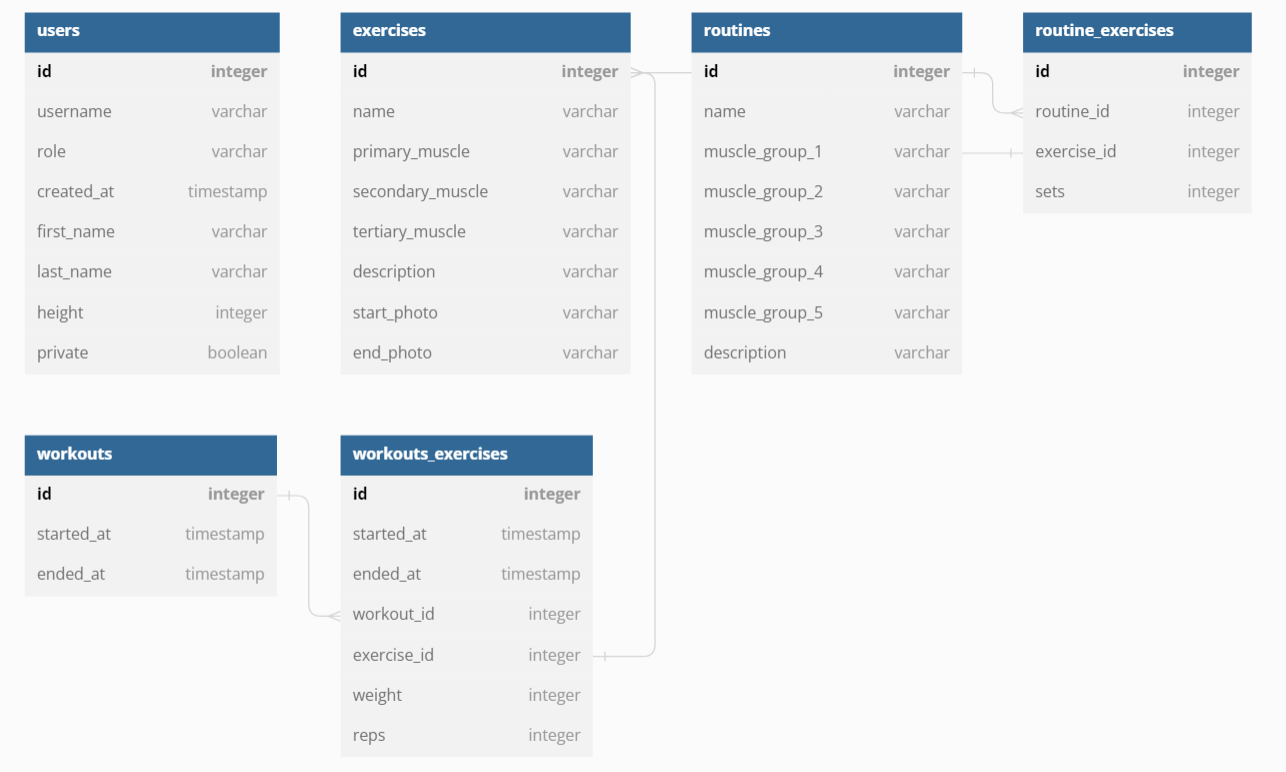
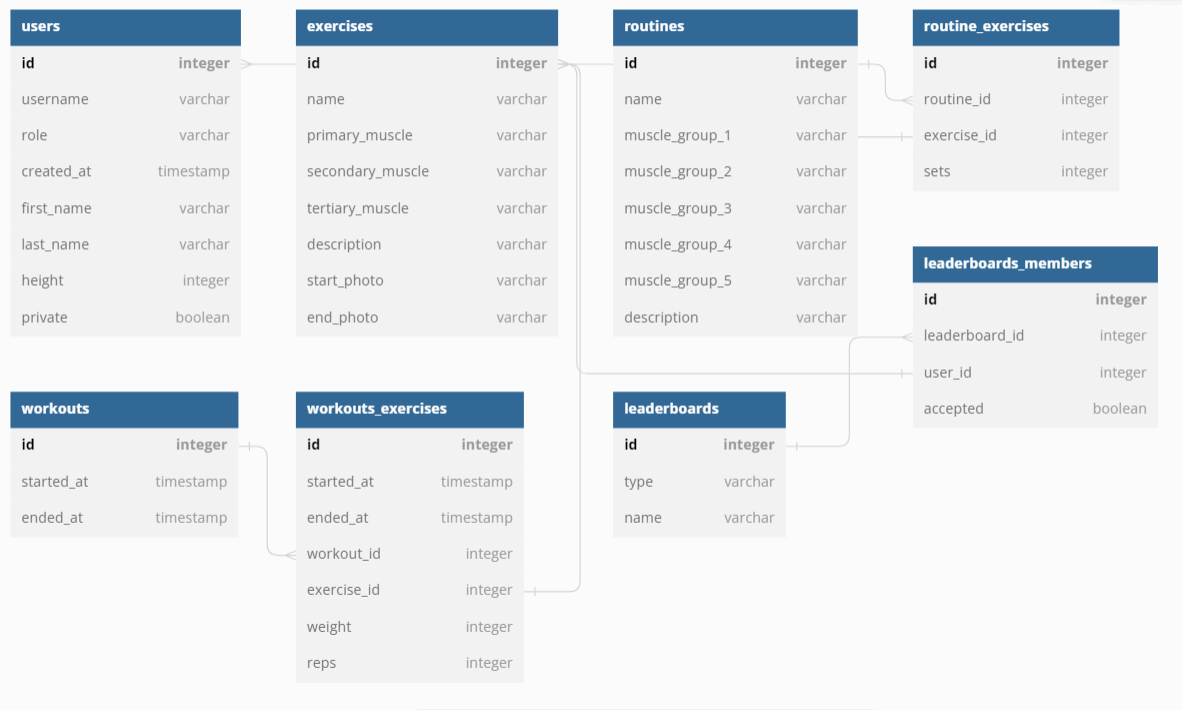
wireframes added

diff --git a/documentation/feature-list/feature_list.md b/documentation/feature-list/feature_list.md
@@ -6,14 +6,14 @@ PhillyRoll, a Crunchyroll clone, is a website for users to watch anime, engage i
 
 * Users can sign up, log in, and log out.
 * Users can use a demo log in to try the site.
-* Users can't use certain features without logging in to a certified account (like creating or editing an exercise, workout or routine).
+* Users can't use certain features without logging in to an account (like creating or editing an exercise, workout or routine).
 * Logged in users are directed to the home page
 * Logged out users are directed to the landing page.
 
 ## 1. Exercises CRUD:
 
 ### C -
-* certified users can post (create) exercises with the following required fields: name, description, and primary_muscle. They will also have the following optional (nullable true) fields: secondary_muscle, tertiary_muscle, start_photo and end_photo.
+* users can post (create) exercises with the following required fields: name, description, and primary_muscle. They will also have the following optional (nullable true) fields: secondary_muscle, tertiary_muscle, start_photo and end_photo.
 
 ### R -
  *  all users can view (read) all of the exercises for any given muscle group.
@@ -55,7 +55,7 @@ PhillyRoll, a Crunchyroll clone, is a website for users to watch anime, engage i
 ## 4. leaderboard CRUD:
 
 ### C -
-* all users can create a leaderboard with the following required fields: leaderboard type, private (boolean)
+* all users can create a leaderboard with the following required fields: leaderboard type, private (boolean) and name
 
 ### R -
 * all users can view private = false leaderboards, and users who are added to private leaderboards can view them
@@ -68,6 +68,8 @@ PhillyRoll, a Crunchyroll clone, is a website for users to watch anime, engage i
 
 ## BONUS:
 
+
+
 ### Weight (CRUD)
   * on the logged in user's page `/users/me` I should see a weight chart, that I shows my historical weight entries in a simple line chart. I should also see an update button which allows me to add an entry.
   * I should be able to update previous entries by clicking on them and entering a number into a modal
@@ -78,4 +80,3 @@ PhillyRoll, a Crunchyroll clone, is a website for users to watch anime, engage i
 
 ### Search (R)
   * on all pages I should see a search bar which allows me to search for users easily
-

diff --git a/documentation/user-stories/user_stories.md b/documentation/user-stories/user_stories.md
@@ -14,7 +14,7 @@
   * When I enter invalid data on the sign-up form:
     * I would like the website to inform me of the validations I failed to pass, and repopulate the form with my valid entries (except my password).
     * So that I can try again without needing to refill forms I entered valid data into.
-  * I can sign up as either a certified or non certified user, ONLY certified users can post exercises.
+
 
 ### Log in
 
@@ -31,9 +31,9 @@
 
 ### Demo User
 
-* As an unregistered and unauthorized user, I would like an easy to find and clear button on both the `/signup` and `/login` pages to allow me to visit the site as a guest without signing up or logging in.
-  * When I'm on either the `/signup` or `/login` pages:
-    * I can click on a Demo User button for either a certified demo profile or a regular user profile to log me in and allow me access the site's functionality based off the user's permissions.
+* As an unregistered and unauthorized user, I would like an easy to find and clear button on the landing page to allow me to visit the site as a guest without signing up or logging in.
+  * When I'm on the landing page:
+    * I can click on a Demo User button for demo profile or  sign up as regular user profile or open a modal to log me in and allow me access the site's functionality.
 
 ### Log Out
 
@@ -50,7 +50,7 @@
   * I should also be able to view all exercises when adding exercises to a workout
 
 ### Adding an exercises
-* As a logged in certified user, I should be able to  click on a button on my page to create a new exercise, this button will open a modal to create the exercise.
+* As a logged in user, I should be able to  click on a button on my page to create a new exercise, this button will open the `/exercises/new` page to create the exercise.
   * after successfully submitting the exercise the modal should close and the my exercises carousel should update
 ### Deleting an exercise
   * on hover over an exercise in my carousel I should see a delete button, which will open a confirm delete modal, the confirm delete modal will then either cancel the delete or delete the exercise

diff --git a/documentation/wireframes/wireframes.md b/documentation/wireframes/wireframes.md
@@ -1,0 +1,30 @@
+## Wireframes
+
+### Styling Choices
+
+* Font Family: Sans-Serif
+
+* Buttons:
+    *Font Color: White
+    *Background Color: Blue
+
+* Login/ Sign Up Form:
+    Background Color: light grey
+
+### Landing Page
+![Landing Page](landing.png)
+
+### Home Page
+![Home Page](homepage.png)
+
+### Profile Modal
+![Profile Modal](profile-modal.png)
+
+### Profile Page
+![Profile Page](profile.png)
+
+### Exercises Page
+![Exercises Page](exercises.png)
+
+### Leaderboards Page
+![Leaderboards Page](leaderboards.png)
